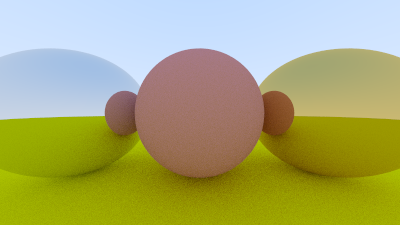
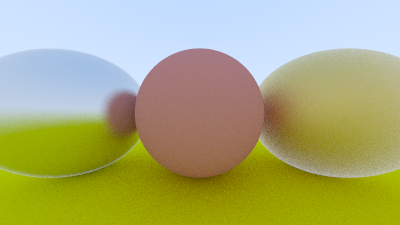
9.6 fuzzy reflection

diff --git a/main.cpp b/main.cpp
@@ -41,8 +41,8 @@ int main()
 
 	auto material_ground = make_shared<lambertian>(color(0.8, 0.8, 0.0));
 	auto material_center = make_shared<lambertian>(color(0.7, 0.3, 0.3));
-	auto material_left = make_shared<metal>(color(0.8, 0.8, 0.8));
-	auto material_right	= make_shared<metal>(color(0.8, 0.6, 0.2));
+	auto material_left = make_shared<metal>(color(0.8, 0.8, 0.8), 0.3);
+	auto material_right	= make_shared<metal>(color(0.8, 0.6, 0.2), 1.0);
 
 	world.add(make_shared<sphere>(point3( 0.0,	-100.5,	-1.0), 100.0, material_ground));
 	world.add(make_shared<sphere>(point3( 0.0,	   0.0,	-1.0),   0.5, material_center));

diff --git a/material.h b/material.h
@@ -34,15 +34,16 @@ public:
 class metal : public material
 {
 public:
-	metal(const color& a) : albedo(a) {}
+	metal(const color& a, double f) : albedo(a), fuzz(f < 1 ? f : 1) {}
 
 	virtual bool scatter(const ray& r_in, const hit_record& rec, color& attenuation, ray& scattered) const override
 	{
 		const vec3 reflected = reflect(normalize(r_in.dir), rec.normal);
-		scattered = ray(rec.p, reflected);
+		scattered = ray(rec.p, reflected + fuzz * random_in_unit_sphere());
 		attenuation = albedo;
 		return dot(scattered.dir, rec.normal) > 0;
 	}
 
 	color albedo;
+	double fuzz;
 };
